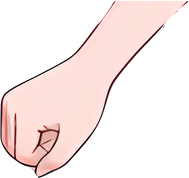
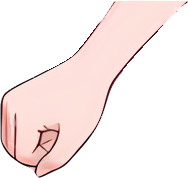
v4b 3차: 손목 띠·왼손 위 회색 겹선 제거, 기존 데모 주소(v3-demo/)를 v4b 데모로 교체(옛 v3는 v3-demo-backup/ 보존, precache 323)

diff --git a/v3-demo/index.html b/v3-demo/index.html
@@ -3,31 +3,22 @@
 <head>
 <meta charset="UTF-8" />
 <meta name="viewport" content="width=device-width, initial-scale=1, viewport-fit=cover" />
-<title>시하 v3 데모 (뼈대)</title>
+<title>시하 v4 B안 데모 (레이어)</title>
 <style>
   html,body{margin:0;background:#fff7fb;font-family:system-ui,sans-serif;color:#6e3d5b;touch-action:manipulation}
   #wrap{display:flex;flex-direction:column;align-items:center;gap:8px;padding:8px}
-  canvas{height:min(78vh,calc(94vw*2560/1760),924px);width:auto;aspect-ratio:1760/2560;background:#fdeef6;border-radius:16px;touch-action:none;}
-  /* 버튼 두 줄(한 줄에 셋): 폭을 똑같이 나눔 */
-  .bar{display:flex;flex-wrap:wrap;gap:6px;justify-content:center;width:min(96vw,560px)}
-  button{flex:1 1 30%;min-width:0;white-space:nowrap;font-size:clamp(12px,3.3vw,16px);padding:10px 4px;border-radius:14px;border:2px solid #e9a7c8;background:#fff;color:#6e3d5b}
-  button[aria-pressed=true]{background:#ffd9ea}
+  canvas{height:min(78vh,calc(94vw*2560/1760),924px);width:auto;aspect-ratio:1760/2560;background:#fdeef6;border-radius:16px}
+  .bar{display:flex;gap:6px;justify-content:center;width:min(96vw,560px)}
+  button{flex:1;font-size:16px;padding:10px 4px;border-radius:14px;border:2px solid #e9a7c8;background:#fff;color:#6e3d5b}
   h1{font-size:16px;margin:4px}
 </style>
 </head>
 <body>
 <div id="wrap">
-  <h1>시하 v3 데모 · 마이크 포즈 <small>(실험용)</small></h1>
+  <h1>시하 v4 B안 데모 · 부위 레이어 <small>(실험용)</small></h1>
   <canvas id="c" width="1760" height="2560" aria-label="시하 인형"></canvas>
-  <div class="bar">
-    <button id="outfit" aria-pressed="true">옷 입기</button>
-    <button id="mic" aria-pressed="true">🎤 마이크</button>
-    <button id="wave">👋 흔들기</button>
-    <button id="acc_ribbon" aria-pressed="false">리본</button>
-    <button id="acc_star" aria-pressed="false">별 핀</button>
-    <button id="reset">처음대로</button>
-  </div>
+  <div class="bar"><button id="wave">👋 흔들기</button><button id="reset">처음대로</button></div>
 </div>
-<script type="module" src="/src/v3demo/main.js"></script>
+<script type="module" src="/src/v4bdemo/main.js"></script>
 </body>
 </html>

diff --git a/vite.config.js b/vite.config.js
@@ -26,7 +26,7 @@ function sihaPwaPlugin() {
 
       const rels = listFiles(dist)
         .map((p) => relative(dist, p).split('\\').join('/'))
-        .filter((r) => r !== 'sw.js' && !r.endsWith('.map') && !r.startsWith('v3-demo/') && !r.startsWith('assets/v3') && !r.startsWith('v4b-demo/') && !r.startsWith('assets/v4b'))
+        .filter((r) => r !== 'sw.js' && !r.endsWith('.map') && !r.startsWith('v3-demo/') && !r.startsWith('v3-demo-backup/') && !r.startsWith('assets/v3') && !r.startsWith('v4b-demo/') && !r.startsWith('assets/v4b'))
         .sort()
       let sw = readFileSync(join(dist, 'sw.js'), 'utf8')
       // sw.js 본문이 바뀌어도(캐시 규칙 수정 등) 캐시 버전이 새로 나오게 본문도 지문에 넣는다.
@@ -47,6 +47,6 @@ export default defineConfig({
   plugins: [react(), sihaPwaPlugin()],
   base: '/siha-sticker-book/',
   server: { port: 5178, strictPort: true },
-  // v3 데모는 따로 쪽(/siha-sticker-book/v3-demo/). 지금 앱(index.html)·저장 키는 그대로.
-  build: { target: 'es2022', rollupOptions: { input: { main: join(here, 'index.html'), v3demo: join(here, 'v3-demo/index.html'), v4bdemo: join(here, 'v4b-demo/index.html') }, output: { entryFileNames: (c) => (c.name === 'v3demo' ? 'assets/v3demo-[hash].js' : c.name === 'v4bdemo' ? 'assets/v4bdemo-[hash].js' : 'assets/[name]-[hash].js') } } },
+  // 3차: 기존 데모 주소(/siha-sticker-book/v3-demo/)는 v4b 데모(저장 키 siha-v4b-demo-v1)를 보여 줌. 옛 v3 데모는 /siha-sticker-book/v3-demo-backup/ 에 보존(siha-v3-demo-v1 그대로). 지금 앱(index.html)·저장 키는 그대로.
+  build: { target: 'es2022', rollupOptions: { input: { main: join(here, 'index.html'), v3demo: join(here, 'v3-demo/index.html'), v4bdemo: join(here, 'v4b-demo/index.html'), v3demobackup: join(here, 'v3-demo-backup/index.html') }, output: { chunkFileNames: (c) => (c.moduleIds.some((id) => id.includes('/src/v4bdemo/')) ? 'assets/v4b-[name]-[hash].js' : 'assets/[name]-[hash].js'), entryFileNames: (c) => (c.name === 'v3demobackup' ? 'assets/v3demobackup-[hash].js' : c.name === 'v3demo' ? 'assets/v3demo-[hash].js' : c.name === 'v4bdemo' ? 'assets/v4bdemo-[hash].js' : 'assets/[name]-[hash].js') } } },
 })

diff --git a/v3-demo-backup/index.html b/v3-demo-backup/index.html
@@ -1,0 +1,33 @@
+<!doctype html>
+<html lang="ko">
+<head>
+<meta charset="UTF-8" />
+<meta name="viewport" content="width=device-width, initial-scale=1, viewport-fit=cover" />
+<title>시하 v3 데모 (뼈대)</title>
+<style>
+  html,body{margin:0;background:#fff7fb;font-family:system-ui,sans-serif;color:#6e3d5b;touch-action:manipulation}
+  #wrap{display:flex;flex-direction:column;align-items:center;gap:8px;padding:8px}
+  canvas{height:min(78vh,calc(94vw*2560/1760),924px);width:auto;aspect-ratio:1760/2560;background:#fdeef6;border-radius:16px;touch-action:none;}
+  /* 버튼 두 줄(한 줄에 셋): 폭을 똑같이 나눔 */
+  .bar{display:flex;flex-wrap:wrap;gap:6px;justify-content:center;width:min(96vw,560px)}
+  button{flex:1 1 30%;min-width:0;white-space:nowrap;font-size:clamp(12px,3.3vw,16px);padding:10px 4px;border-radius:14px;border:2px solid #e9a7c8;background:#fff;color:#6e3d5b}
+  button[aria-pressed=true]{background:#ffd9ea}
+  h1{font-size:16px;margin:4px}
+</style>
+</head>
+<body>
+<div id="wrap">
+  <h1>시하 v3 데모 · 마이크 포즈 <small>(실험용)</small></h1>
+  <canvas id="c" width="1760" height="2560" aria-label="시하 인형"></canvas>
+  <div class="bar">
+    <button id="outfit" aria-pressed="true">옷 입기</button>
+    <button id="mic" aria-pressed="true">🎤 마이크</button>
+    <button id="wave">👋 흔들기</button>
+    <button id="acc_ribbon" aria-pressed="false">리본</button>
+    <button id="acc_star" aria-pressed="false">별 핀</button>
+    <button id="reset">처음대로</button>
+  </div>
+</div>
+<script type="module" src="/src/v3demo/main.js"></script>
+</body>
+</html>
